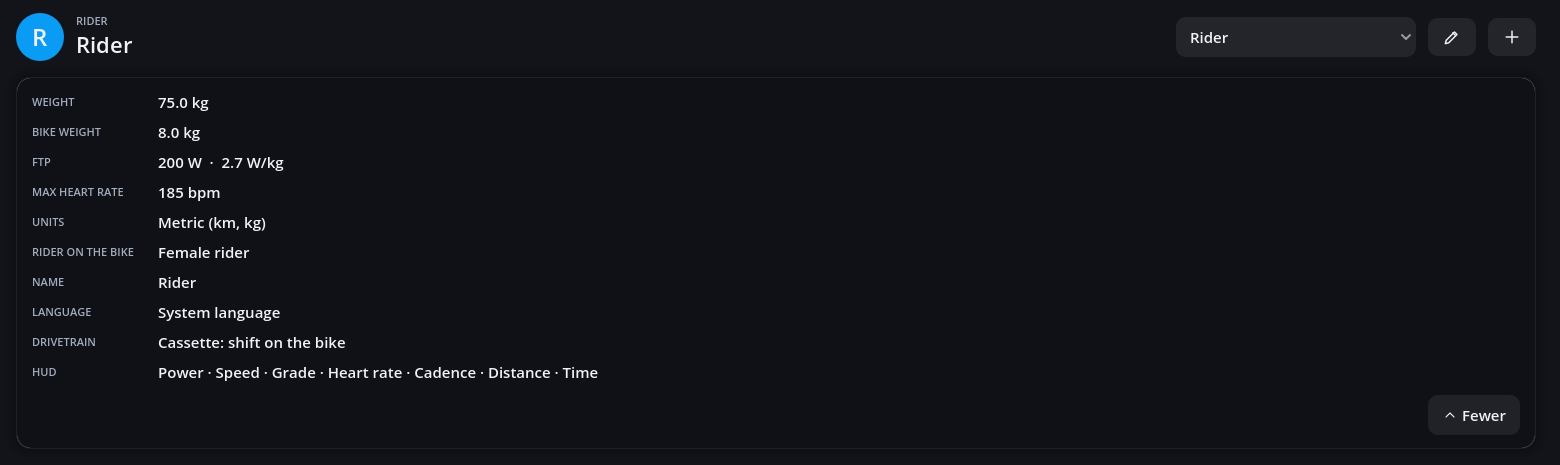
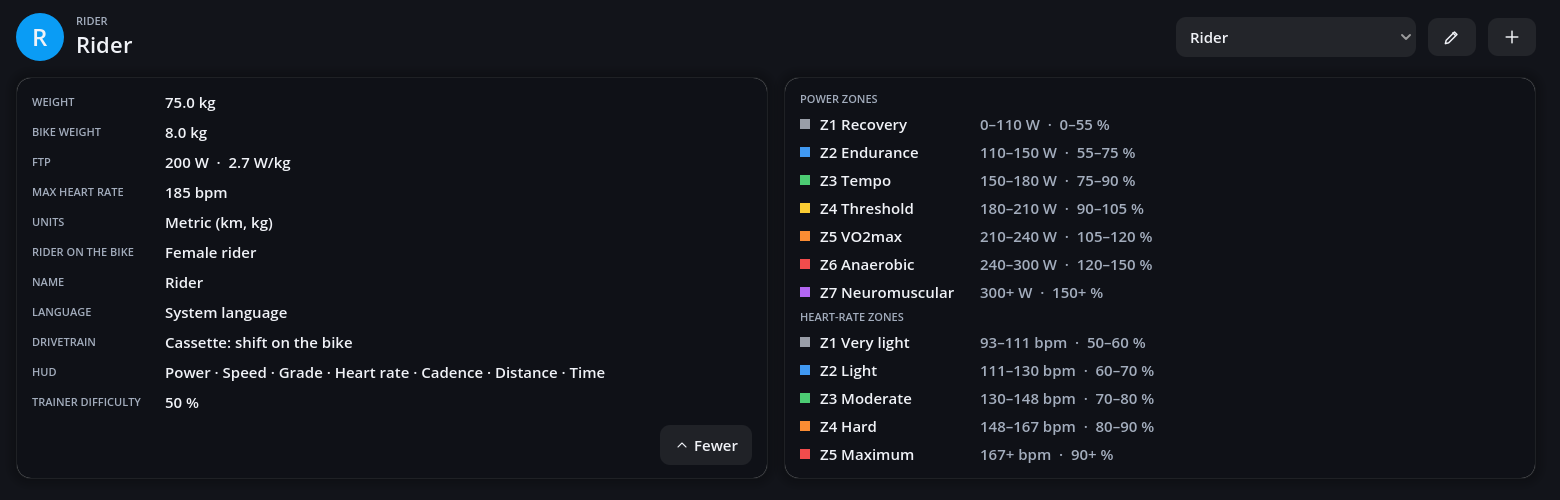
feat(app): the rider's zones beside the figures on the Profile tab (#194)
A second card shows the power zones 1–7 and the heart-rate zones 1–5 with
their colours, names, watts or beats and shares, as the dialog's Zones tab
sets them; the trainer difficulty joins the unfolded settings.

diff --git a/docs/riders.md b/docs/riders.md
@@ -3,7 +3,8 @@
 Each rider has a profile: name, weight, bike weight, FTP, maximum heart rate and units
 (metric or imperial). Pick the rider in the **Profile** tab; the pencil beside the list
 changes the profile, the plus adds a rider. The tab shows the rider's figures; **All settings**
-under them unfolds everything the dialog has, the HUD's layout included.
+under them unfolds everything the dialog has, the HUD's layout included; the zones stand beside
+the figures with their ranges.
 
 - **Weight + bike weight** set how hard climbs are and how fast you roll.
 - **FTP** sets the power zones shown under the power figure (Coggan's seven zones:
